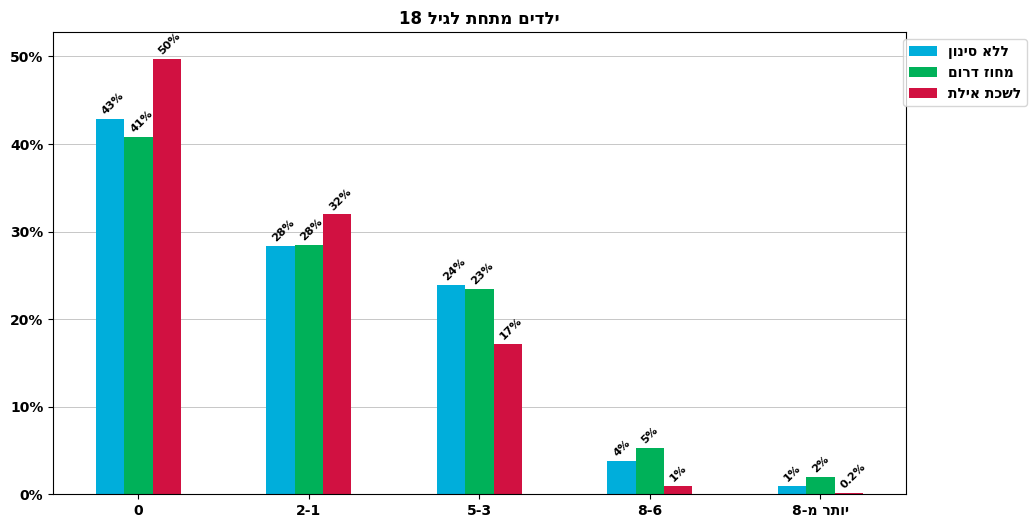
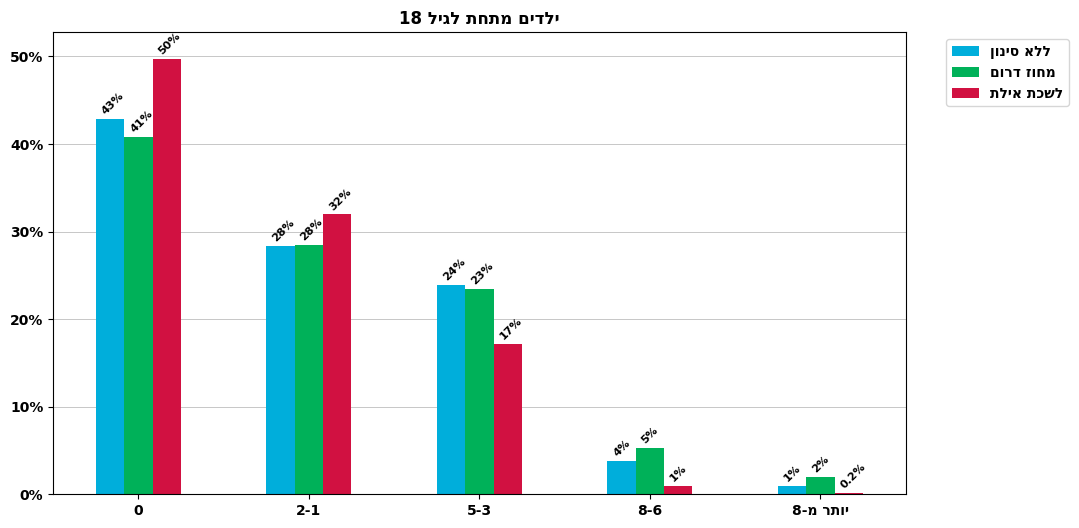
graphs visibility

diff --git a/classes.py b/classes.py
@@ -565,7 +565,7 @@ class StandardAnalysis:
             plt.xlabel("")
             max_value = max(filtered_sheet.max())  # get the max value in this dataframe
             plt.ylim(0, max_value + 0.03)  # set y axis limit 1 - adjust frame
-            plt.legend(bbox_to_anchor=(1.15, 1), loc='upper right')  # legend outside the graph
+            plt.legend(bbox_to_anchor=(1.2, 1), loc='upper right')  # legend outside the graph
             # attach values
             for p in graph_sue_type.patches:
                 if p.get_height() * 100 < 1:
@@ -662,51 +662,8 @@ class StandardAnalysis:
 
         """Job AND Fields distribution"""
         for tmp_dict in [self.jobs_dic, self.fields_jobs_dic]:
-            if tmp_dict is not None:
-                filtered_sheet = tmp_dict.sort_values(by=self.filter_instructions_array[-1][0], ascending=False).copy()
-                try:
-                    filtered_sheet = filtered_sheet.drop(index="לא ידוע")
-                except:
-                    filtered_sheet = filtered_sheet
-                try:
-                    filtered_sheet = filtered_sheet.drop(index="לא מוגדר")
-                except:
-                    filtered_sheet = filtered_sheet
-                filtered_sheet = filtered_sheet.head(n=20)  # take first 20
-                # change values to percents
-                tmp = build_array_sum_tot_groups(self)
-                try:
-                    filtered_sheet = filtered_sheet / tmp
-                except ValueError:
-                    for i in range(len(tmp)):
-                        if tmp[i] == 0:
-                            tmp[i] = 1
-                    filtered_sheet = filtered_sheet / tmp
-                filtered_sheet = get_hebrew_translation(filtered_sheet)  # Hebrew translation
-                # graph
-                graph_Jobs = filtered_sheet.plot.bar(rot=65, fontsize=9, figsize=(16, 7), color=color_palette)
-                graph_Jobs.set_yticklabels([])  # drop y axis values
-                plt.tick_params(axis='y', left=False, right=False, labelleft=False, labelbottom=False, bottom=False)
-                # remove frame
-                graph_Jobs.spines['top'].set_visible(False)
-                graph_Jobs.spines['right'].set_visible(False)
-                graph_Jobs.spines['left'].set_visible(False)
-                plt.xlabel("")
-                try:
-                    max_value = max(filtered_sheet.max())  # get the max value in this dataframe
-
-                except TypeError:
-                    max_value = 0.5
-                plt.ylim(0, max_value + 0.01)  # set y axis limit 1 - adjust frame
-                if tmp_dict.equals(self.jobs_dic):
-                    plt.title(('התפלגות מקצועות שכיחים')[::-1], fontweight='bold')
-                    plt.savefig(self.output_directory + '/Graphs/' + 'גרף_מקצועות' + '.png',
-                                bbox_inches='tight')  # save to folder as .png
-                elif tmp_dict.equals(self.fields_jobs_dic):
-                    plt.title(('התפלגות ענפי מקצועות שכיחים')[::-1], fontweight='bold')
-                    plt.savefig(self.output_directory + '/Graphs/' + 'גרף_ענפים' + '.png',
-                                bbox_inches='tight')  # save to folder as .png
-                plt.clf()
+            create_graph_jobs(self, tmp_dict, color_palette)  # w/ problematic values
+            create_graph_jobs(self, tmp_dict, color_palette, True)  # w/o problematic values
 
         plt.close("all")
         return query_sum_arr_for_graphs

diff --git a/utils.py b/utils.py
@@ -768,3 +768,68 @@ def get_hebrew_translation(df):
     for rowName in df.itertuples():
         df = df.rename(index={rowName.Index: rowName.Index[::-1]})
     return df
+
+
+def create_graph_jobs(obj, tmp_dict, color_palette, flag=False):
+    if tmp_dict is not None:
+        filtered_sheet = tmp_dict.sort_values(by=obj.filter_instructions_array[-1][0], ascending=False).copy()
+        try:
+            filtered_sheet = filtered_sheet.drop(index="לא ידוע")
+        except KeyError:
+            filtered_sheet = filtered_sheet
+        try:
+            filtered_sheet = filtered_sheet.drop(index="לא מוגדר")
+        except KeyError:
+            filtered_sheet = filtered_sheet
+        if flag:
+            try:
+                filtered_sheet = filtered_sheet.drop(index="כללי וללא ניסיון")
+            except KeyError:
+                filtered_sheet = filtered_sheet
+            try:
+                filtered_sheet = filtered_sheet.drop(index="עובד/ת לא מקצועי")
+            except KeyError:
+                filtered_sheet = filtered_sheet
+        filtered_sheet = filtered_sheet.head(n=20)  # take first 20
+        # change values to percents
+        tmp = build_array_sum_tot_groups(obj)
+        try:
+            filtered_sheet = filtered_sheet / tmp
+        except ValueError:
+            for i in range(len(tmp)):
+                if tmp[i] == 0:
+                    tmp[i] = 1
+            filtered_sheet = filtered_sheet / tmp
+        filtered_sheet = get_hebrew_translation(filtered_sheet)  # Hebrew translation
+        # graph
+        graph_Jobs = filtered_sheet.plot.bar(rot=65, fontsize=9, figsize=(16, 7), color=color_palette)
+        graph_Jobs.set_yticklabels([])  # drop y axis values
+        plt.tick_params(axis='y', left=False, right=False, labelleft=False, labelbottom=False, bottom=False)
+        # remove frame
+        graph_Jobs.spines['top'].set_visible(False)
+        graph_Jobs.spines['right'].set_visible(False)
+        graph_Jobs.spines['left'].set_visible(False)
+        plt.xlabel("")
+        try:
+            max_value = max(filtered_sheet.max())  # get the max value in this dataframe
+
+        except TypeError:
+            max_value = 0.5
+        plt.ylim(0, max_value + 0.01)  # set y axis limit 1 - adjust frame
+        if tmp_dict.equals(obj.jobs_dic):
+            plt.title('התפלגות מקצועות שכיחים'[::-1], fontweight='bold')
+            if flag:
+                plt.savefig(obj.output_directory + '/Graphs/' + 'גרף_מקצועות_ללא_כללי' + '.png',
+                            bbox_inches='tight')  # save to folder as .png
+            else:
+                plt.savefig(obj.output_directory + '/Graphs/' + 'גרף_מקצועות' + '.png',
+                            bbox_inches='tight')  # save to folder as .png
+        elif tmp_dict.equals(obj.fields_jobs_dic):
+            plt.title('התפלגות ענפי מקצועות שכיחים'[::-1], fontweight='bold')
+            if flag:
+                plt.savefig(obj.output_directory + '/Graphs/' + 'גרף_ענפים_ללא_כללי' + '.png',
+                            bbox_inches='tight')  # save to folder as .png
+            else:
+                plt.savefig(obj.output_directory + '/Graphs/' + 'גרף_ענפים' + '.png',
+                            bbox_inches='tight')  # save to folder as .png
+        plt.clf()

diff --git a/Main.py b/Main.py
@@ -25,7 +25,7 @@ def main():
     # obj_gui_input.welcome_window()
     # debug<<                todo clear debug
     obj_gui_input.output_directory = "C:/Users/Shir Granit/PycharmProjects/E2P/pkls_n_debugging/tmp"
-    obj_gui_input.filter_instructions_array = [["ללא סינון", None], ['מחוז דרום', [['מחוז', 'דרום']]],
+    obj_gui_input.filter_instructions_array = [["כלל הארץ", None], ['מחוז דרום', [['מחוז', 'דרום']]],
                                                ['לשכת אילת', [['לשכה', 'אילת']]]]
     obj = classes.StandardAnalysis(
         pd.read_pickle("./pkls_n_debugging/dummy.pkl"),
